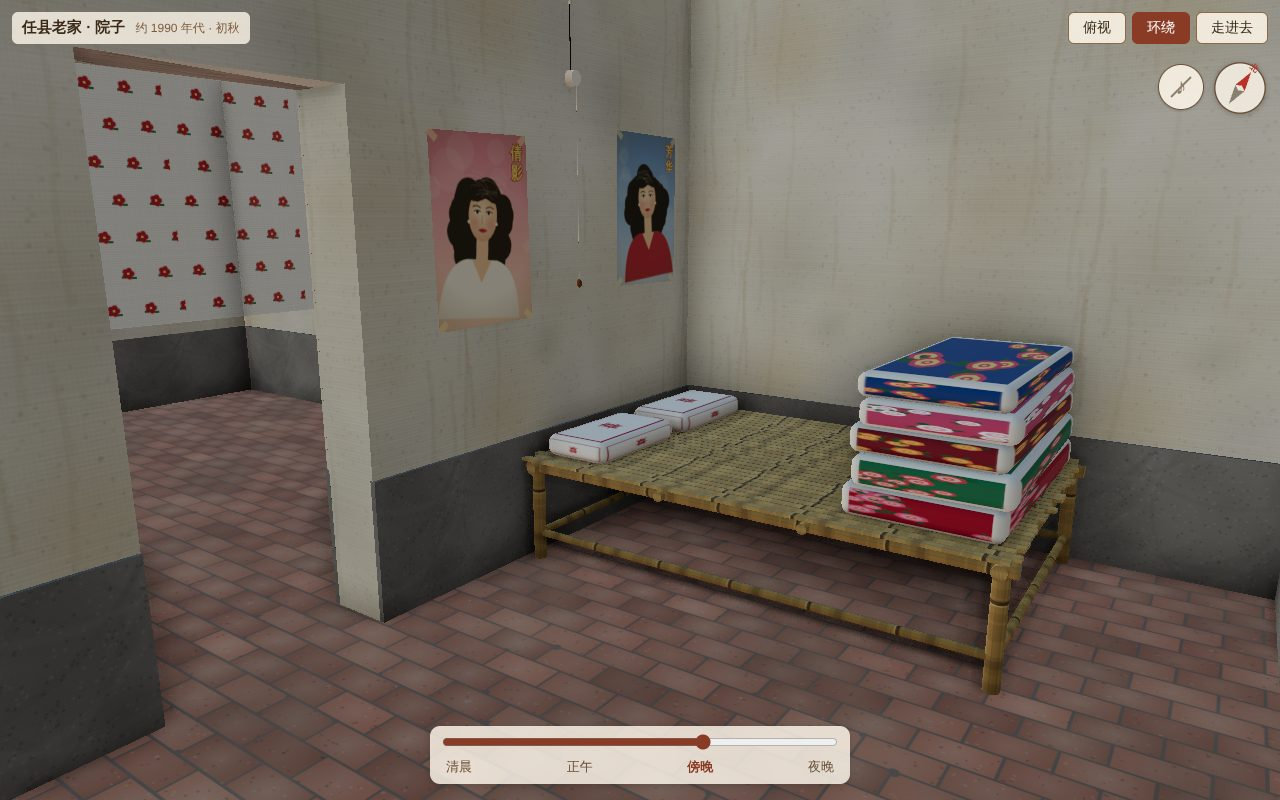
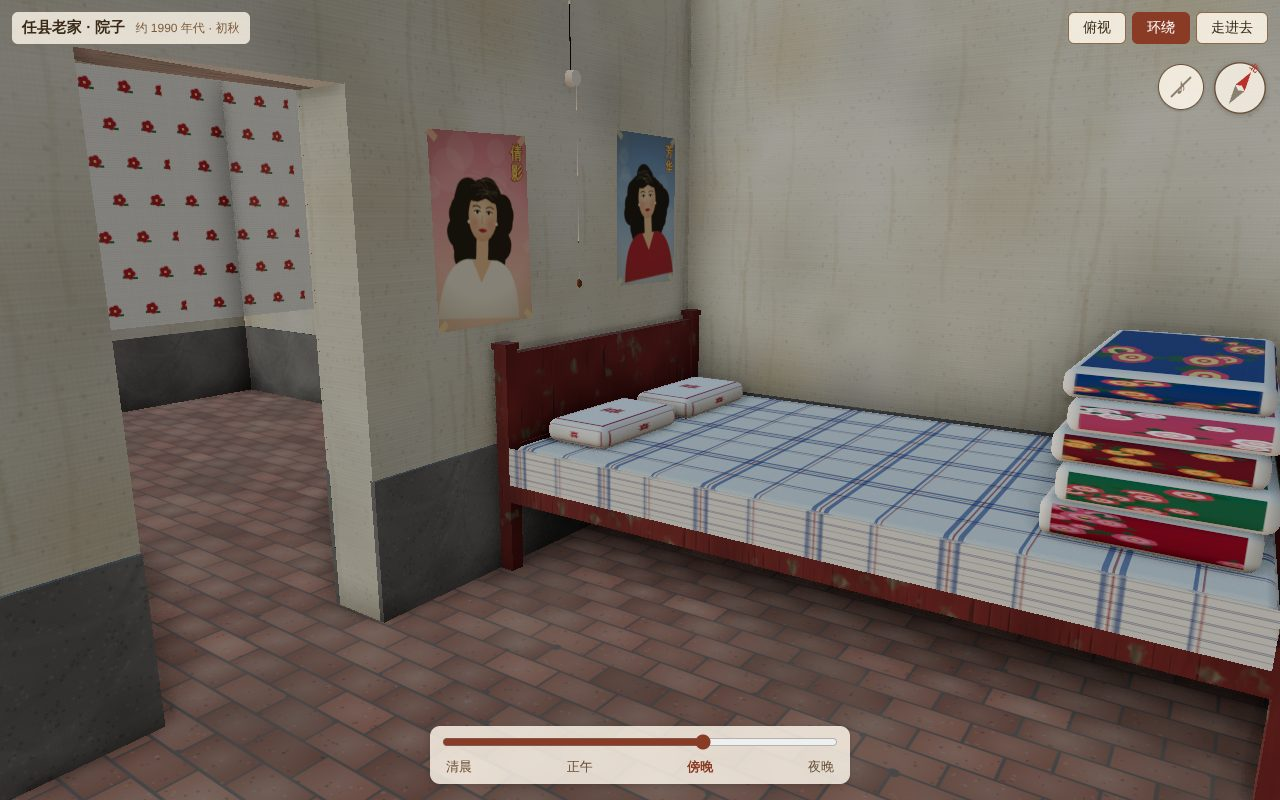
里屋的竹床改成木头床：东西两头挨墙，旧枣红漆，铺褥子和老粗布床单
- 床长 = 里屋净宽（西头挨隔墙、东头挨东墙），宽 1.5 m、床板面 0.48 m
- 四根方立柱，床头板（西）0.95 m、床尾板（东）0.72 m，前后床帮、几块宽木板做床板
- 褥子 + 白底蓝红条格的老粗布床单，前沿垂下来一截；被子摞床尾、枕头在床头
- 更新 spec（v21）、CLAUDE.md、平面图、截图

Claude-Session: https://claude.ai/code/session_01HJLasCaBTePKwEqSFahTsZ

Changed region(s): [[0.375, 0.375, 1.0, 1.0]]

diff --git a/src/interiors/northWest.js b/src/interiors/northWest.js
@@ -11,7 +11,7 @@ import { createWaterVat } from '../yard/waterVat.js';
  * 西北屋室内（挂在 interior-anchor-west 上；坐标原点 = 室内西北角、地坪面，+x 东、+z 南）：
  * - 墙刷大白，年深日久发黄发脏；墙根往上 0.55 m 抹水泥；地面铺磨旧的淡红砖
  * - 一道隔墙把屋子分成西边的外屋（六成）和东边的里屋（四成），隔墙上一个小门洞，挂半截白布门帘（织着小红花），人走过去会被撩开
- * - 里屋北边一张竹床（床头顶着隔墙），床尾摞着几床八九十年代的缎子被面棉花被，床头两个枕头
+ * - 里屋北边一张老木头床，西头挨着隔墙、东头挨着东墙；铺着褥子和老粗布床单，床尾摞着几床八九十年代的缎子被面棉花被，床头两个枕头
  * - 床头隔墙上一个拉线开关，拉一下屋顶的灯泡亮（15 瓦上下的白炽灯，昏黄），再拉一下灭；这面墙上贴着三张八九十年代的女明星海报（画的，不是真人）
  * - 南墙：西南角一口水缸，往东两台做蜡烛的器具（按用户照片），东头煤球炉 + 一锅化开的蜡；南墙上一扇窗；南墙和那片顶棚被烟火熏黑
  */
@@ -172,35 +172,31 @@ function floorTex() {
   );
 }
 
-/** 竹子：黄褐色、发旧，竹节一圈深色；贴图沿长度方向 1 格 = 一节（约 0.3 m） */
-function bambooTex() {
+/** 老粗布床单：白底，蓝、红细条交织成格子，洗得发旧 */
+function sheetTex() {
   return canvasTex(
-    64,
-    128,
+    256,
+    256,
     (g, w, h) => {
-      const r = rng(37);
-      const lin = g.createLinearGradient(0, 0, w, 0);
-      lin.addColorStop(0, '#a88446');
-      lin.addColorStop(0.5, '#c9a660');
-      lin.addColorStop(1, '#a07c40');
-      g.fillStyle = lin;
+      const r = rng(43);
+      g.fillStyle = '#e8e2d4';
       g.fillRect(0, 0, w, h);
-      for (let i = 0; i < 40; i++) {
-        g.fillStyle = `rgba(${r() > 0.5 ? '90,64,30' : '220,196,140'},0.15)`;
-        g.fillRect(r() * w, 0, 1, h);
-      }
-      // 竹节
-      g.fillStyle = 'rgba(90,62,28,0.85)';
-      g.fillRect(0, 0, w, 5);
-      g.fillStyle = 'rgba(230,206,150,0.5)';
-      g.fillRect(0, 5, w, 2);
-      // 手摸、汗渍发暗
-      for (let i = 0; i < 8; i++) {
-        g.fillStyle = 'rgba(80,56,30,0.12)';
-        g.fillRect(0, r() * h, w, 6 + r() * 20);
+      const stripes = (vertical) => {
+        for (const [pos, wd, col] of [[20, 10, '58,86,140'], [36, 4, '170,50,50'], [46, 10, '58,86,140'], [148, 6, '58,86,140'], [160, 3, '170,50,50']]) {
+          g.fillStyle = `rgba(${col},0.55)`;
+          if (vertical) g.fillRect(pos, 0, wd, h);
+          else g.fillRect(0, pos, w, wd);
+        }
+      };
+      stripes(true);
+      stripes(false);
+      // 粗布的纱线疙瘩
+      for (let i = 0; i < 3000; i++) {
+        g.fillStyle = r() > 0.5 ? 'rgba(255,255,250,0.12)' : 'rgba(120,110,90,0.1)';
+        g.fillRect(r() * w, r() * h, 1 + r() * 2, 1);
       }
     },
-    { repeat: [1, 1] },
+    { repeat: [6, 3.5] }, // 褥子是 0..1 UV：约 0.45 m 一格
   );
 }
 
@@ -769,66 +765,61 @@ export function createNorthWestInterior() {
   hemTop.position.set(cx, dh + 0.03, dz);
   group.add(hemTop);
 
-  // —— 竹床：靠北墙，床头顶着隔墙 ——
+  // —— 木头床：靠北墙，西头挨着隔墙、东头挨着东墙；旧枣红漆，床头板高、床尾板低 ——
   const BD = R.bed;
-  const bx0 = IX0 + tc + 0.01;
-  const bx1 = bx0 + BD.length;
-  const bz0 = tc + 0.02;
+  const bx0 = IX0 + tc + 0.005;
+  const bx1 = IX1 - tc - 0.005;
+  const bz0 = tc + 0.01;
   const bz1 = bz0 + BD.width;
-  const bamboo = new THREE.MeshStandardMaterial({ map: bambooTex(), roughness: 0.55 });
-  /** 一根竹竿：a、b 两端，r 半径；贴图一格一节 */
-  const pole = (a, b, r) => {
-    const v = new THREE.Vector3().subVectors(b, a);
-    const len = v.length();
-    const geo = new THREE.CylinderGeometry(r, r, len, 10);
-    const uv = geo.attributes.uv;
-    for (let i = 0; i < uv.count; i++) uv.setY(i, (uv.getY(i) * len) / 0.32);
-    const m = new THREE.Mesh(geo, bamboo);
-    m.position.copy(a).addScaledVector(v, 0.5);
-    m.quaternion.setFromUnitVectors(new THREE.Vector3(0, 1, 0), v.normalize());
-    m.castShadow = m.receiveShadow = true;
-    group.add(m);
-    return m;
-  };
-  const V3 = (x, y, z) => new THREE.Vector3(x, y, z);
-  const legIn = 0.05;
-  const topY = BD.height;
-  for (const x of [bx0 + legIn, bx1 - legIn]) for (const z of [bz0 + legIn, bz1 - legIn]) pole(V3(x, 0, z), V3(x, topY - 0.012, z), 0.028);
-  // 床框：两根长边、两根短边，底下一圈横撑
-  for (const z of [bz0 + legIn, bz1 - legIn]) {
-    pole(V3(bx0, topY - 0.04, z), V3(bx1, topY - 0.04, z), 0.026);
-    pole(V3(bx0 + legIn, 0.12, z), V3(bx1 - legIn, 0.12, z), 0.016);
-  }
-  for (const x of [bx0 + legIn, bx1 - legIn]) {
-    pole(V3(x, topY - 0.04, bz0), V3(x, topY - 0.04, bz1), 0.026);
-    pole(V3(x, 0.12, bz0 + legIn), V3(x, 0.12, bz1 - legIn), 0.016);
-  }
-  // 床面中间两根托撑
-  for (const f of [0.35, 0.65]) pole(V3(bx0 + (bx1 - bx0) * f, topY - 0.04, bz0), V3(bx0 + (bx1 - bx0) * f, topY - 0.04, bz1), 0.02);
-  // 床面：一根根劈开的竹片顺着床长铺
-  {
-    const n = Math.floor(BD.width / 0.045);
-    const slatGeo = new THREE.BoxGeometry(BD.length - 0.02, 0.012, 0.038);
-    const uv = slatGeo.attributes.uv;
-    // 顺着长度方向一格一节
-    const pos = slatGeo.attributes.position;
-    for (let i = 0; i < uv.count; i++) uv.setXY(i, 0.5 + pos.getZ(i) * 4, (pos.getX(i) + BD.length / 2) / 0.32);
-    const slatMat = new THREE.MeshStandardMaterial({ map: bamboo.map, roughness: 0.45 });
-    const inst = new THREE.InstancedMesh(slatGeo, slatMat, n);
-    const m4 = new THREE.Matrix4();
-    const col = new THREE.Color();
-    const rr = rng(53);
-    for (let i = 0; i < n; i++) {
-      m4.makeTranslation((bx0 + bx1) / 2 + (rr() - 0.5) * 0.04, topY - 0.006, bz0 + 0.025 + i * ((BD.width - 0.05) / (n - 1)));
-      inst.setMatrixAt(i, m4);
-      inst.setColorAt(i, col.setScalar(0.85 + rr() * 0.25));
+  const topY = BD.height; // 床板面
+  const wood = mat('wood');
+  const P = 0.065; // 床腿（立柱）见方
+  const solidOff = { solid: false };
+  // 四根立柱：床头（西）两根到床头板顶，床尾（东）两根到床尾板顶
+  for (const [x, top] of [[bx0, BD.head], [bx1 - P, BD.foot]]) {
+    for (const z of [bz0, bz1 - P]) {
+      group.add(box(x, x + P, 0, top, z, z + P, wood, solidOff));
+      group.add(box(x - 0.008, x + P + 0.008, top, top + 0.025, z - 0.008, z + P + 0.008, wood, solidOff)); // 柱头
     }
-    inst.castShadow = inst.receiveShadow = true;
-    group.add(inst);
+  }
+  // 床帮：前后两根大方子，两头两根横撑
+  group.add(box(bx0 + P, bx1 - P, topY - 0.17, topY - 0.03, bz1 - 0.05, bz1, wood, solidOff));
+  group.add(box(bx0 + P, bx1 - P, topY - 0.17, topY - 0.03, bz0, bz0 + 0.05, wood, solidOff));
+  for (const x of [bx0 + P, bx1 - P - 0.05]) group.add(box(x, x + 0.05, topY - 0.17, topY - 0.03, bz0 + P, bz1 - P, wood, solidOff));
+  // 床板：几块宽木板横着铺
+  {
+    const plank = mat('oldWood');
+    const n = 6;
+    const L = bx1 - bx0 - 2 * P;
+    for (let i = 0; i < n; i++) {
+      const x0 = bx0 + P + (i * L) / n;
+      group.add(box(x0 + 0.004, x0 + L / n - 0.004, topY - 0.03, topY, bz0 + 0.05, bz1 - 0.05, plank, solidOff));
+    }
+  }
+  // 床头板（挨着隔墙）、床尾板（挨着东墙）：框 + 中间一块芯板
+  for (const [x, top] of [[bx0, BD.head], [bx1 - P, BD.foot]]) {
+    const xc = x + P / 2;
+    group.add(box(xc - 0.018, xc + 0.018, topY + 0.04, top - 0.02, bz0 + P, bz1 - P, wood, solidOff));
+    group.add(box(xc - 0.025, xc + 0.025, top - 0.08, top - 0.02, bz0 + P, bz1 - P, wood, solidOff)); // 上横档
+    group.add(box(xc - 0.025, xc + 0.025, topY + 0.02, topY + 0.07, bz0 + P, bz1 - P, wood, solidOff)); // 下横档
+  }
+  // 褥子 + 老粗布床单（前沿垂下来一截）
+  const sheetMat = new THREE.MeshStandardMaterial({ map: sheetTex(), roughness: 0.95 });
+  {
+    const mx0 = bx0 + P + 0.01;
+    const mx1 = bx1 - P - 0.01;
+    const pad = new THREE.Mesh(new RoundedBoxGeometry(mx1 - mx0, 0.07, BD.width - 0.04, 3, 0.03), sheetMat);
+    pad.position.set((mx0 + mx1) / 2, topY + 0.035, (bz0 + bz1) / 2);
+    pad.castShadow = pad.receiveShadow = true;
+    group.add(pad);
+    const drape = new THREE.Mesh(new THREE.PlaneGeometry(mx1 - mx0, 0.16), sheetMat);
+    drape.position.set((mx0 + mx1) / 2, topY - 0.01, bz1 + 0.012);
+    drape.receiveShadow = true;
+    group.add(drape);
   }
   // 挡人：一个看不见的盒子
-  const bedBlock = box(bx0, bx1, 0, topY, bz0, bz1, new THREE.MeshBasicMaterial({ visible: false }));
-  bedBlock.name = 'bamboo-bed';
+  const bedBlock = box(bx0, bx1, 0, topY + 0.07, bz0, bz1, new THREE.MeshBasicMaterial({ visible: false }));
+  bedBlock.name = 'wooden-bed';
   group.add(bedBlock);
 
   // —— 被子摞在床尾（东头），枕头在床头（西头，挨着隔墙） ——
@@ -842,8 +833,8 @@ export function createNorthWestInterior() {
     ];
     const qw = 1.15; // 叠好的长边，顺着床宽
     const qd = 0.55;
-    let y = topY;
-    const qx = bx1 - qd / 2 - 0.05;
+    let y = topY + 0.07;
+    const qx = bx1 - P - qd / 2 - 0.04;
     const qz = (bz0 + bz1) / 2;
     covers.forEach(([base, f1, f2, seed], i) => {
       const th = 0.12 - i * 0.008;
@@ -870,7 +861,7 @@ export function createNorthWestInterior() {
     for (const dzp of [-0.32, 0.32]) {
       const p = new THREE.Mesh(new RoundedBoxGeometry(0.55, 0.1, 0.32, 3, 0.045), new THREE.MeshStandardMaterial({ map: pillowTex, roughness: 0.8 }));
       p.rotation.y = Math.PI / 2;
-      p.position.set(bx0 + 0.22, topY + 0.05, qz + dzp);
+      p.position.set(bx0 + P + 0.22, topY + 0.12, qz + dzp);
       p.castShadow = p.receiveShadow = true;
       group.add(p);
     }

diff --git a/src/layout.js b/src/layout.js
@@ -68,7 +68,7 @@ export const NORTH_HOUSE = {
  * 坐标是室内坐标：原点 = 西北屋室内西北角（墙内侧）、地坪面；+x 东、+z 南、+y 上（见 src/interiors/README.md）。
  * 室内净空 7.14 m × 4.52 m × 2.9 m。进屋门在外屋南墙；隔墙上一个小门洞通里屋，门洞挂半截白布门帘。
  * 墙：刷大白，年深日久发黄发脏；墙根往上 0.55 m 抹水泥（外屋、里屋都是）。地面铺磨旧的淡红砖。
- * 里屋：北边一张竹床（床头顶隔墙），隔墙上拉线开关和几张女明星海报；南墙下西南角一口水缸，往东一排做蜡烛的器具，南墙被熏黑。
+ * 里屋：北边一张木头床（东西两头都挨着墙），隔墙上拉线开关和几张女明星海报；南墙下西南角一口水缸，往东一排做蜡烛的器具，南墙被熏黑。
  */
 export const WEST_ROOM = {
   origin: { x: NORTH_HOUSE.rect.x0 + NORTH_HOUSE.wall, z: NORTH_HOUSE.rect.z0 + NORTH_HOUSE.wall }, // 室内原点的世界坐标
@@ -77,7 +77,7 @@ export const WEST_ROOM = {
   innerDoor: { z: 2.55, width: 0.8, height: 1.9 }, // 隔墙上的小门洞（z 为中心）
   curtain: { drop: 0.78 }, // 白布门帘长度（门洞高的四成左右）
   dado: 0.55, // 墙根抹水泥的高度
-  bed: { length: 2.0, width: 1.35, height: 0.46 }, // 竹床：靠北墙，床头顶着隔墙
+  bed: { width: 1.5, height: 0.48, head: 0.95, foot: 0.72 }, // 木头床：靠北墙，东西两头挨着墙（长度 = 里屋净宽）；height 为床板面高，head/foot 为床头板、床尾板顶高
   pullSwitch: { z: 1.0, y: 2.05, cordEnd: 1.2 }, // 拉线开关：装在隔墙东面（床头这边），灯绳垂到离地 1.2 m
   bulb: { x: 5.76, z: 2.4, drop: 0.55 }, // 里屋顶上的灯泡（15 W 左右的白炽灯），吊下来 0.55 m
   // 隔墙东面（开关这面墙）贴的海报：z 为中心、y 为中心高度

diff --git a/docs/scene-spec.md b/docs/scene-spec.md
@@ -134,7 +134,9 @@
   - 顶棚白灰
 - **地面**：铺砖，不是新砖，是历经岁月磨损的淡红色旧砖（24 × 11.5 cm 错缝平铺，磨得发白、砖缝积土）（已确认）
 - **里屋（掀开门帘进去）**：
-  - **左手边（北边）是竹床**（已确认，原先说的炕更正为竹床）：床头顶着隔墙，靠北墙放；尺寸 **【待确认】** 长 2.0 m、宽 1.35 m、高 0.46 m；黄褐色旧竹子，竹竿腿和框、床面一根根竹片
+  - **左手边（北边）是一张木头床**（已确认，原先说的炕、竹床都更正为木头床）：**往西挨着隔墙，往东挨着东墙**，靠北墙放
+    - 床宽（南北）**【待确认】** 1.5 m、床板面高 0.48 m；旧枣红漆的木头床，四根方立柱，床头板（西，挨隔墙）高 0.95 m、床尾板（东）0.72 m，几块宽木板做床板
+    - 床上铺褥子和老粗布床单（白底蓝红条格），前沿垂下来一截 **【待确认，Claude 加的】**
     - **床上叠放着八九十年代的棉花被**（已确认）：大红、枣红、绿、粉、蓝几床缎子被面，带白被里，摞在床尾（东头）；床头两个绣“喜”字的枕头（已确认）
   - **床头（靠隔墙这边）墙上一个拉线开关**（已确认）：白色胶木圆盒，一根白棉灯绳垂到离地约 1.2 m，下头一个小木坠；一根明线顺着墙、顶棚走到灯头
     - **互动**：走到里屋灯绳旁出“拉灯”按钮（或按 E、或直接点灯绳）：咔哒一声，**屋顶的灯泡亮了，再拉就灭**
@@ -222,7 +224,8 @@
 
 ## 修改记录
 
-- **v20**：西北屋室内按用户意见修改：墙面改成发黄发脏的旧大白 + 墙根 0.55 m 水泥墙裙；地面改成磨旧的淡红砖；外屋/里屋改为六四开；里屋南墙加一扇窗；炕改成竹床；隔墙上贴三张女明星海报；里屋西南角加水缸
+- **v21**：里屋的竹床改成木头床：东西两头都挨着墙，旧枣红漆，床头板、床尾板，铺褥子和老粗布床单
+- **v20**：西北屋室内按用户意见修改：墙面改成发黄发脏的旧大白 + 墙根 0.55 m 水泥墙裙；地面改成磨旧的淡红砖；外屋/里屋改为六四开；里屋南墙加一扇窗；炕改成床（v21：竹床再改成东西两头挨墙的木头床）；隔墙上贴三张女明星海报；里屋西南角加水缸
 - **v19**：西北屋室内第一部分：隔墙分外屋、里屋，门洞挂白布小红花门帘；里屋的炕和棉花被、拉线开关和 15 瓦灯泡（可拉灯）、南墙下一排做蜡烛的器具（按用户照片）、熏黑的南墙
 - **v18**：父亲的脸不再贴照片，改为建模加手画（用户觉得照片脸贴在 3D 头上太丑）
 - **v17**：父亲改成按新照片做的 3D 人物（照片投影的脸 + 衬衫、格子毛背心、运动裤），和场景一样受光照

diff --git a/CLAUDE.md b/CLAUDE.md
@@ -86,7 +86,7 @@ src/
     touch.js            手机：左下虚拟摇杆、滑动转头、轻点交互
     interact.js         走近时出现大按钮（压水/摘石榴/打枣/荡秋千/摸摸大黄/里屋拉灯），按 E 执行第一个；直接点画面会选点击处 90 像素内够得着的目标；“兜里”计数
   interiors/            室内细节，见 interiors/README.md；挂在 interior-anchor-* 上，尺寸在 layout.WEST_ROOM 等（室内坐标）
-    northWest.js        西北屋：隔墙分外屋（六）/里屋（四），门洞白布门帘（顶点动画，人走近被撩开）；墙面旧大白 + 墙根 0.55 m 水泥墙裙（finish() 给每面墙贴两层，外屋也用）、磨旧淡红砖地面；里屋的竹床、被子、拉线开关 + 15 瓦灯泡（lamp.pull() 开关，高画质点光源带阴影）、隔墙上三张画的女明星海报、西南角水缸（复用 yard/waterVat.js）、两台做蜡烛的器具（按用户照片）+ 煤球炉、熏黑的南墙（窗洞处挖空）和顶棚
+    northWest.js        西北屋：隔墙分外屋（六）/里屋（四），门洞白布门帘（顶点动画，人走近被撩开）；墙面旧大白 + 墙根 0.55 m 水泥墙裙（finish() 给每面墙贴两层，外屋也用）、磨旧淡红砖地面；里屋的木头床（东西两头挨墙，旧枣红漆，褥子 + 老粗布床单）、被子、拉线开关 + 15 瓦灯泡（lamp.pull() 开关，高画质点光源带阴影）、隔墙上三张画的女明星海报、西南角水缸（复用 yard/waterVat.js）、两台做蜡烛的器具（按用户照片）+ 煤球炉、熏黑的南墙（窗洞处挖空）和顶棚
   ui/                   样式；timeSlider.js 时间滑块；hud.js 提示/操作说明/兜里计数/准星；compass.js 指北针；musicButton.js 音乐开关（指北针左边，偏好存在 localStorage 'laojia-bgm-v2'）
 scripts/
   gen-plan.mjs          由 layout.js 生成 docs/plan.svg
@@ -134,7 +134,7 @@ docs/
 
 之后的迭代（各屋室内）：先改 docs/scene-spec.md，室内放 src/interiors/，挂到 interior-anchor-* 上；每次改完照旧截图自检、开 PR。
 
-第 10 轮：西北屋室内第一部分（隔墙分外屋/里屋六四开、门帘、旧大白墙 + 水泥墙裙、旧砖地；里屋的竹床/被子/拉线开关灯/海报/水缸/做蜡烛的器具/熏黑的南墙、南窗）。外屋陈设、东北屋、厨房室内还没做。
+第 10 轮：西北屋室内第一部分（隔墙分外屋/里屋六四开、门帘、旧大白墙 + 水泥墙裙、旧砖地；里屋的木头床/被子/拉线开关灯/海报/水缸/做蜡烛的器具/熏黑的南墙、南窗）。外屋陈设、东北屋、厨房室内还没做。
 
 ## 待确认 / 已做的假设
 
